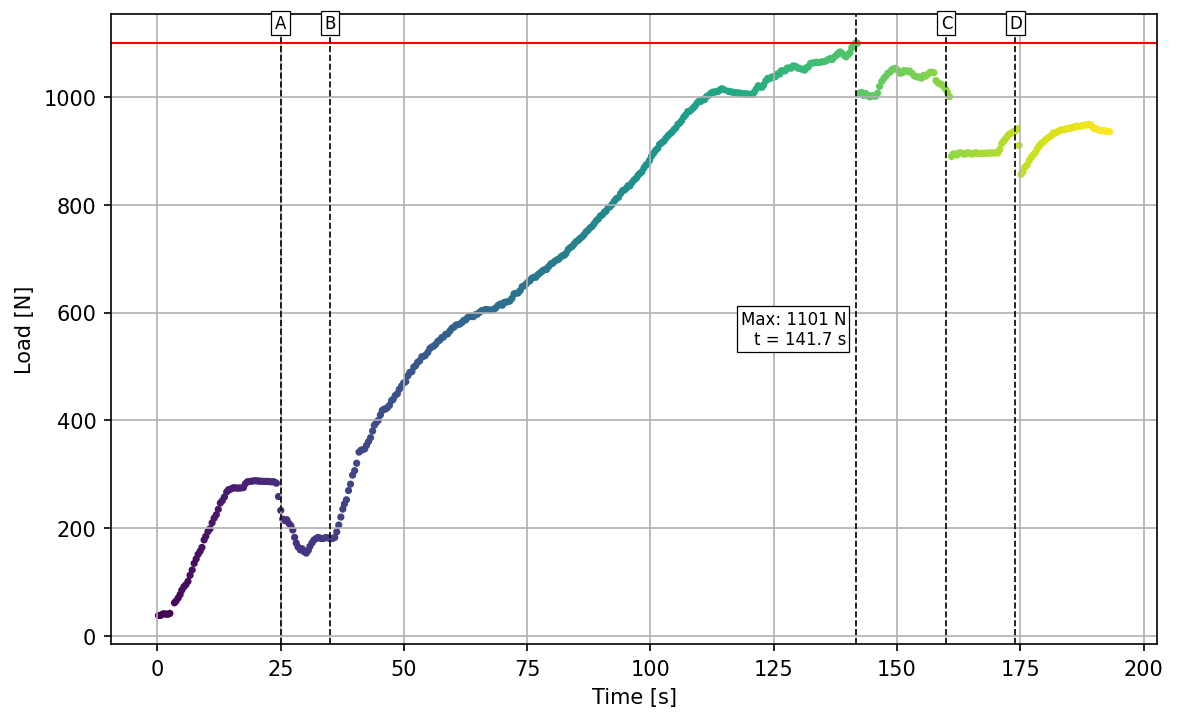
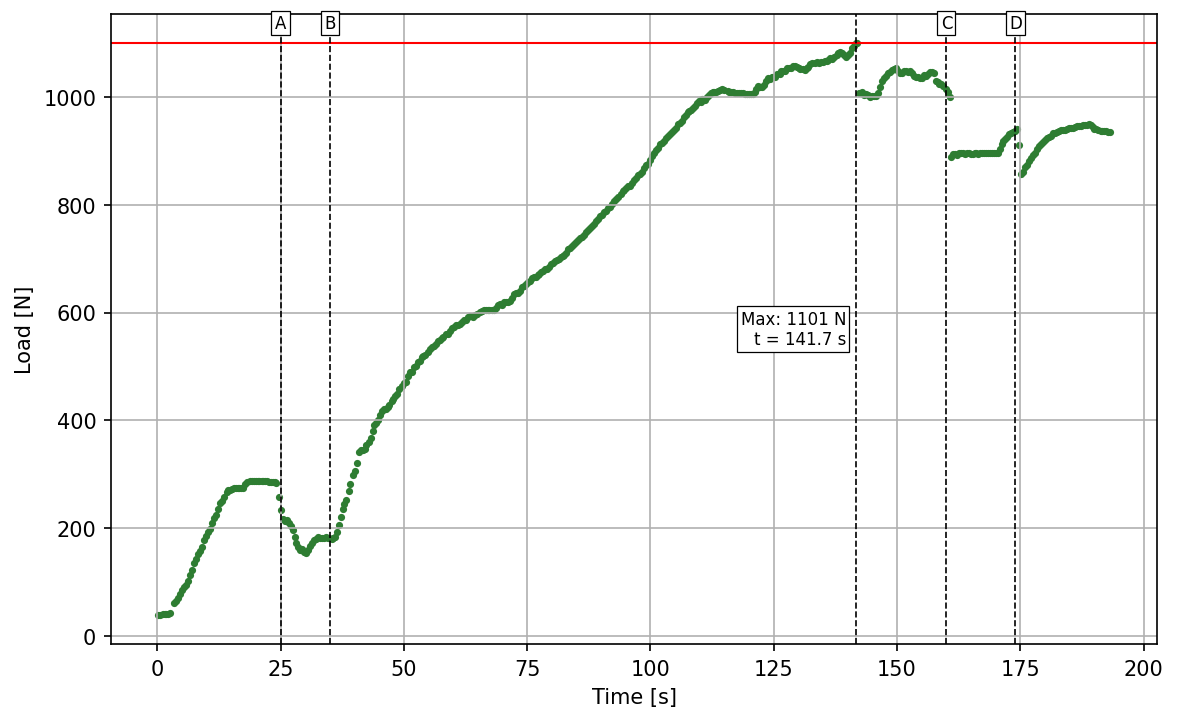
Removed load curve gradient

diff --git a/scripts/ReportFinal.py b/scripts/ReportFinal.py
@@ -83,7 +83,7 @@ def add_markers(ax, events):
 fig1, ax_load = plt.subplots(figsize=(9, 5))
 fig1.subplots_adjust(top=0.95)
 
-ax_load.scatter(time_full, load_full, c=time_full, cmap="viridis", s=6)
+ax_load.scatter(time_full, load_full, color="#2e7d32", s=6)
 ax_load.axhline(y=1100, color="red", linewidth=1)
 ax_load.set_xlabel("Time [s]")
 ax_load.set_ylabel("Load [N]")
